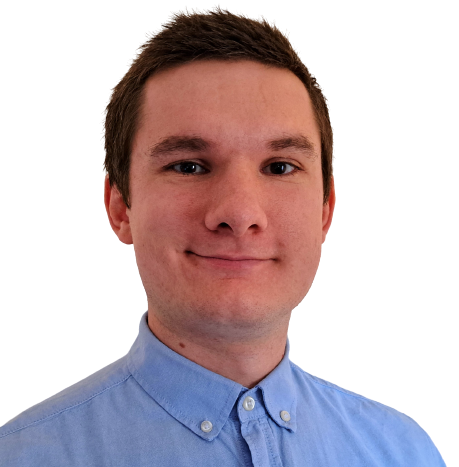
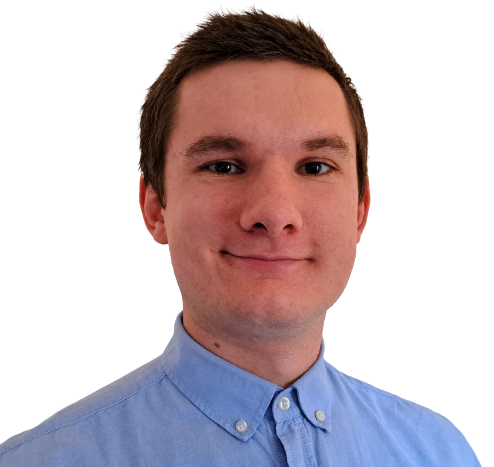
Pic centering

diff --git a/_pages/about.md b/_pages/about.md
@@ -12,4 +12,4 @@ My name is Tobias Rebholz. I am a quantitative psychologist and econometrician w
 
 My research interests include quantitative methods, social cognition, and judgment and decision-making, especially in the context of information sampling and utilization. My doctoral thesis was on the "Advanced Statistical Modeling of Ecological Constraints in Information Sampling and Utilization" (<a href='http://doi.org/10.15496/publikation-83023' target="_blank">http://doi.org/10.15496/publikation-83023</a>). 
 
-More information on my research can be found on this website. Please don’t hesitate to contact me if you have any questions (<a href='mailto:tobias.rebholz@uni-tuebingen.de'>tobias.rebholz@uni-tuebingen.de</a>)!
+More information on my research can be found on this website and in my [CV](/cv/). Please don’t hesitate to contact me if you have any questions (<a href='mailto:tobias.rebholz@uni-tuebingen.de'>tobias.rebholz@uni-tuebingen.de</a>)!
